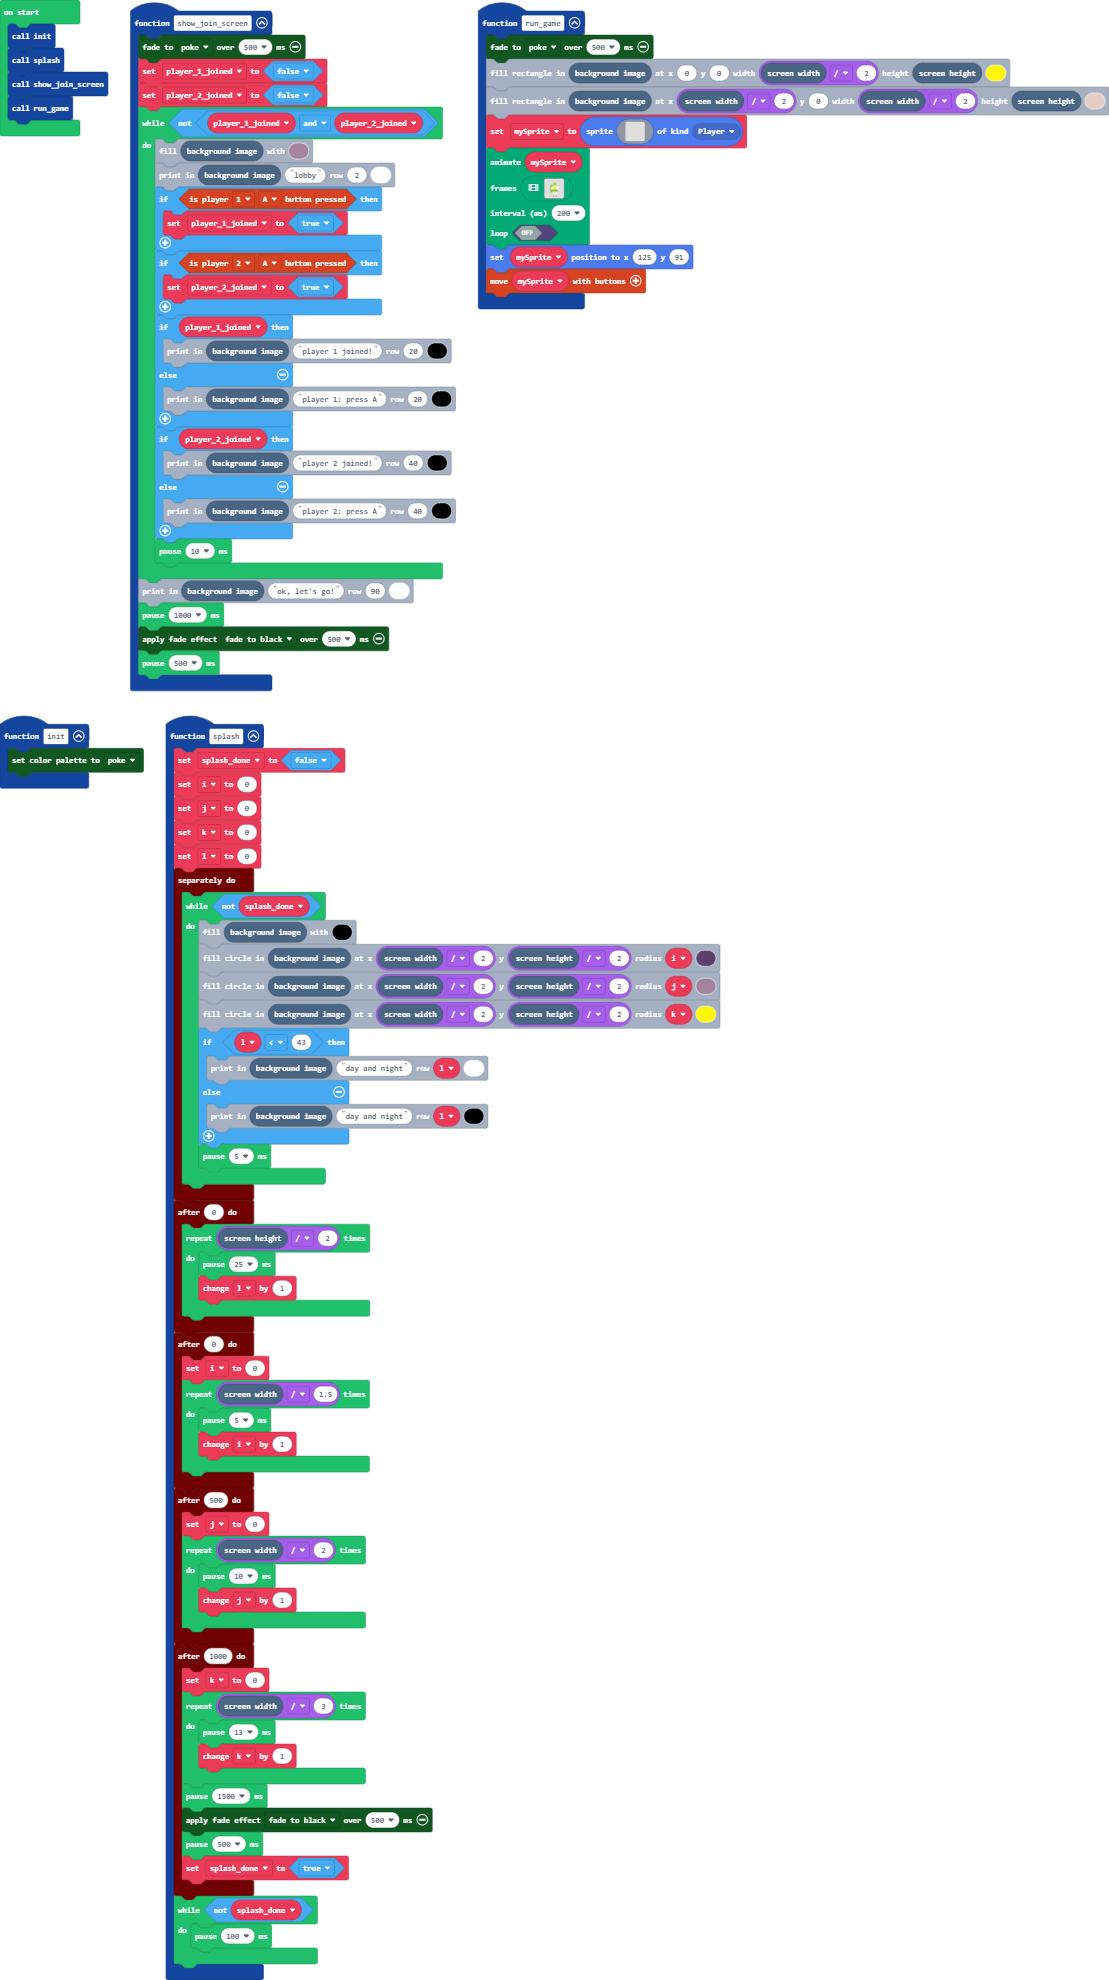
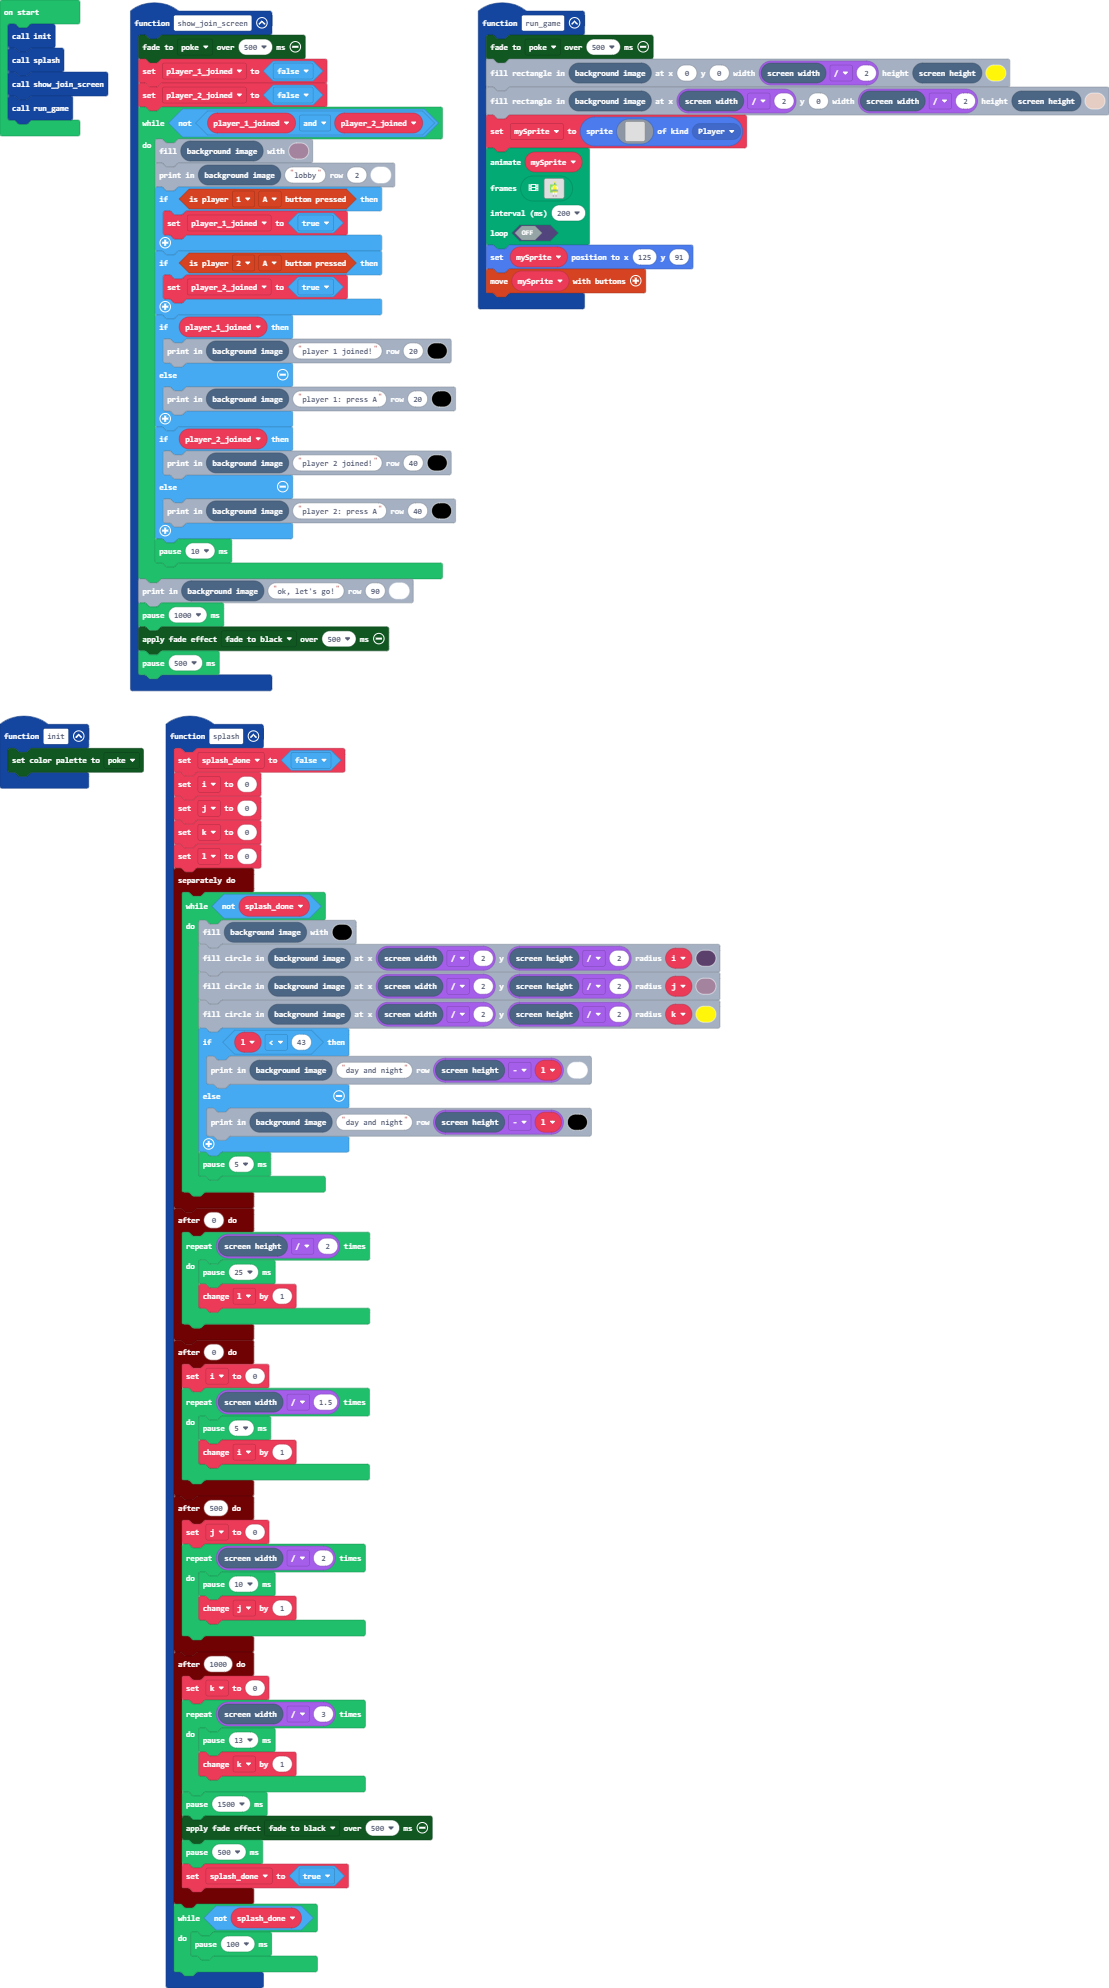
Update pxt.json, main.blocks, main.ts

diff --git a/main.ts b/main.ts
@@ -77,9 +77,9 @@ function splash () {
             scene.backgroundImage().fillCircle(scene.screenWidth() / 2, scene.screenHeight() / 2, j, 11)
             scene.backgroundImage().fillCircle(scene.screenWidth() / 2, scene.screenHeight() / 2, k, 5)
             if (l < 43) {
-                scene.backgroundImage().printCenter("day and night", l, 1)
+                scene.backgroundImage().printCenter("day and night", scene.screenHeight() - l, 1)
             } else {
-                scene.backgroundImage().printCenter("day and night", l, 15)
+                scene.backgroundImage().printCenter("day and night", scene.screenHeight() - l, 15)
             }
             pause(5)
         }
